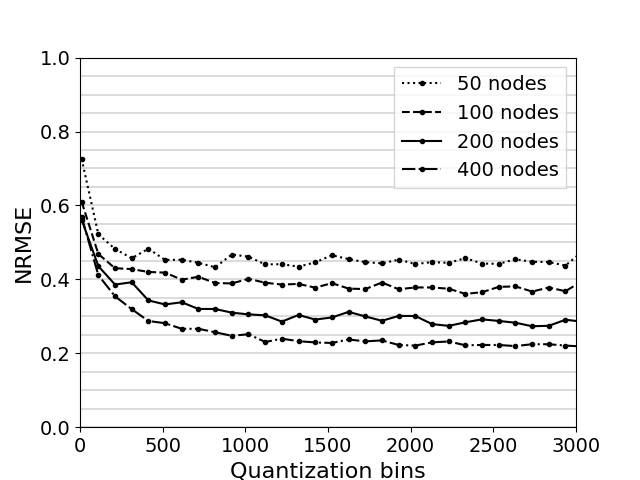
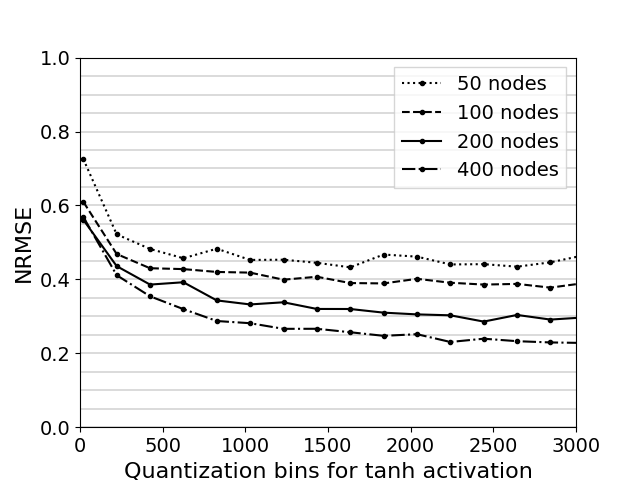
Fix quantization plot.

Changed region(s): [[0.125, 0.3438, 0.9062, 0.75], [0.1875, 0.9688, 0.8438, 1.0]]

diff --git a/py/plot.py b/py/plot.py
@@ -298,7 +298,7 @@ def plot_adc_quantization(dataset):
     labels = ['50 nodes', '100 nodes', '200 nodes', '400 nodes']
     linestyles = ['dotted', 'dashed', 'solid', 'dashdot']
     for i, _nrmses in enumerate(nrmses):
-        plt.plot(quantizations, np.squeeze(_nrmses), color='black',
+        plt.plot(quantizations*2, np.squeeze(_nrmses), color='black',
                  marker='.', linestyle=linestyles[i], label=labels[i])
 
     maxlim = 1.0
@@ -310,7 +310,7 @@ def plot_adc_quantization(dataset):
     plt.xlim(minlim, maxlim)
 
     plt.ylabel('NRMSE')
-    plt.xlabel('Quantization bins')
+    plt.xlabel('Quantization bins for tanh activation')
     plt.legend(fancybox=False, loc='upper right', bbox_to_anchor=(1.0, 1.0))
     plt.hlines(y = np.arange(0.0, 1.05, 0.05), xmin=0.0, xmax=3000, linewidth=0.2)
 
